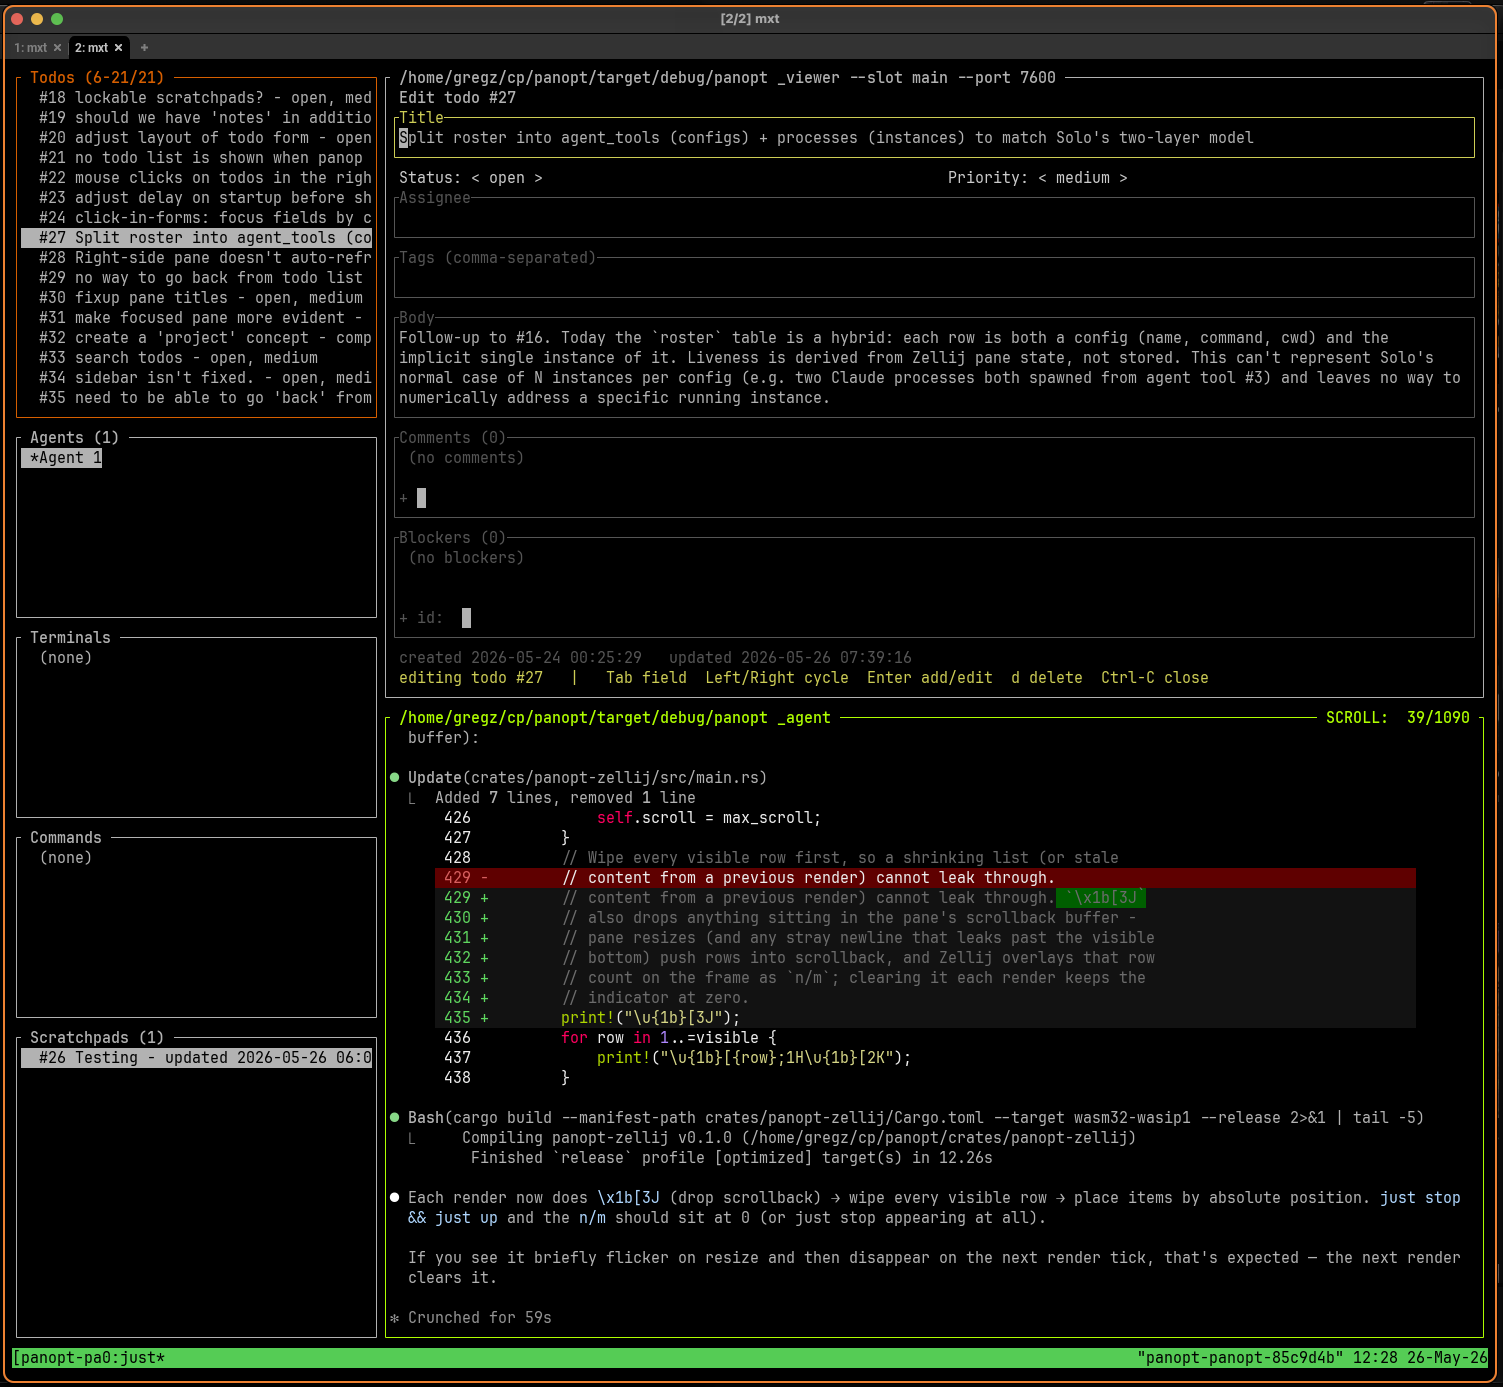
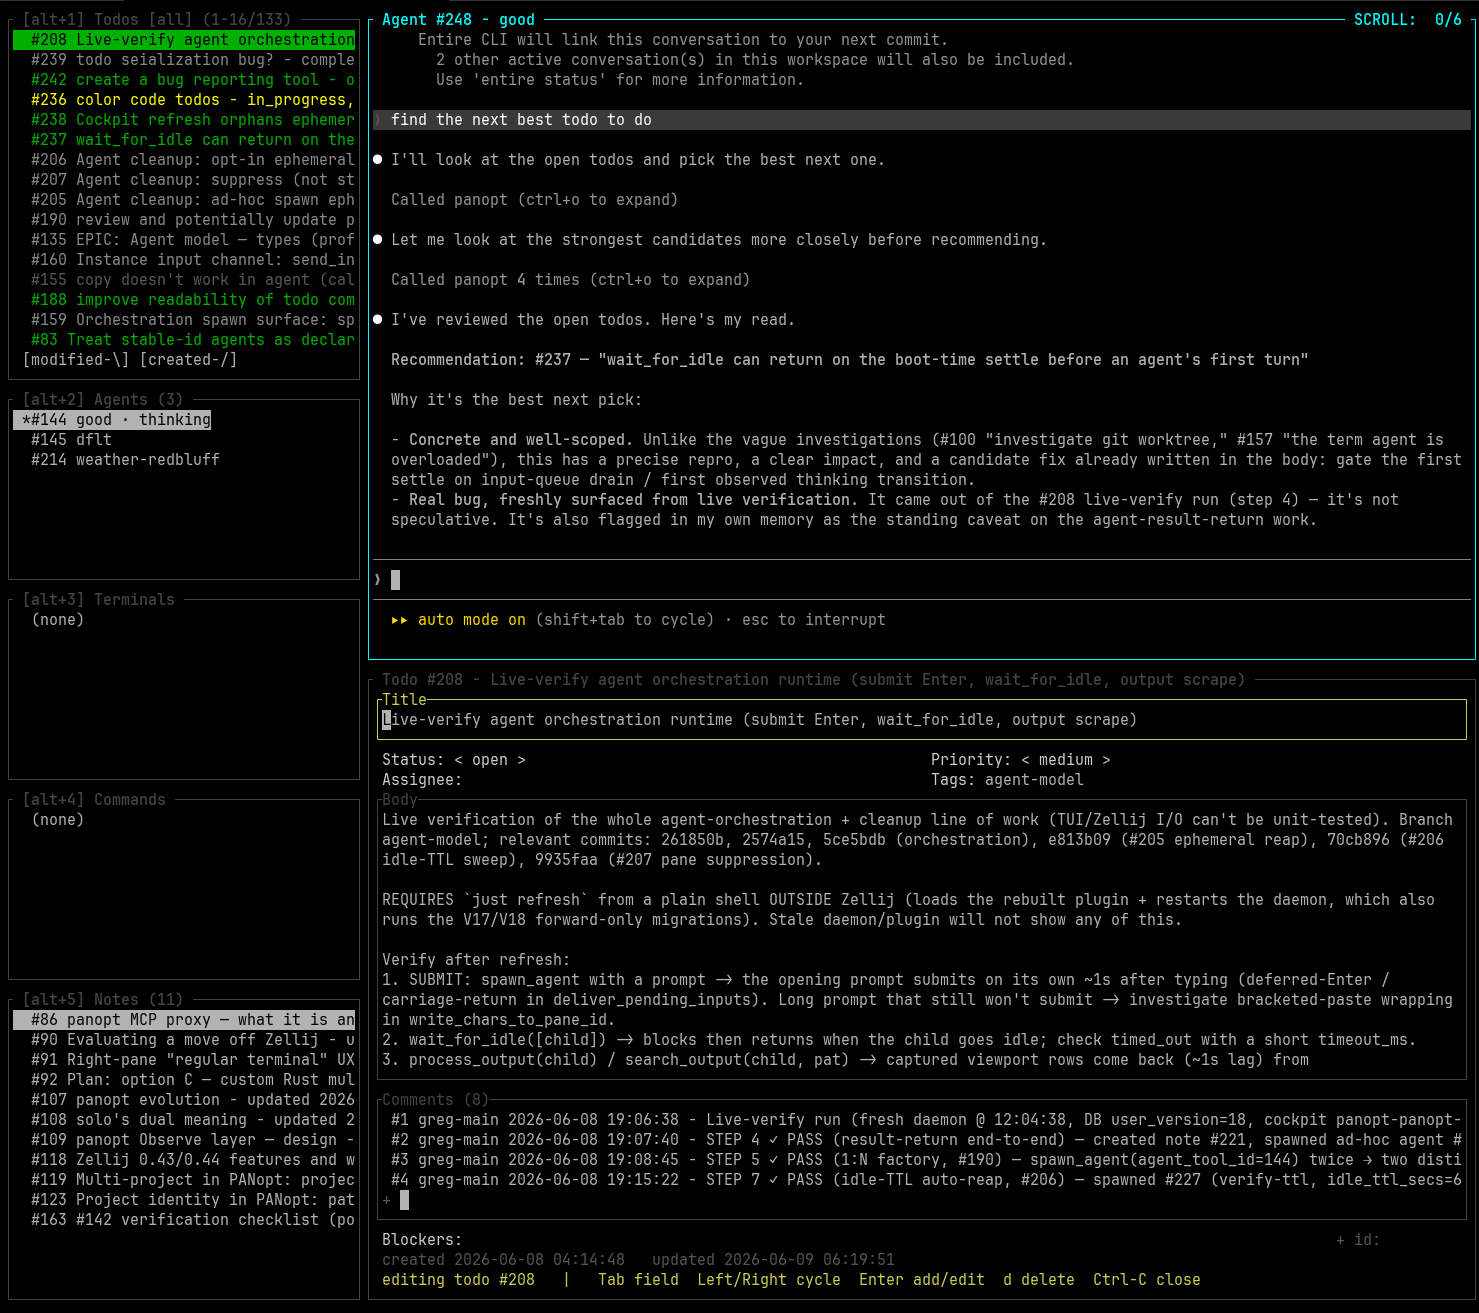
readme update
Entire-Checkpoint: 69986b99829a

Changed region(s): [[0.0, 0.0, 1.0, 0.9992]]

diff --git a/README.md b/README.md
@@ -14,9 +14,12 @@ in flight, and what's coming next - all from one terminal window.
 ## What you get
 
 **A shared todo list.** Every agent sees the same todos. Assign them, set
-priorities, add tags, leave comments, mark them blocked by other todos. You
-edit them from the sidebar with a quick form; your agents create and update
-them through MCP tools.
+priorities, add tags, leave comments, mark them blocked by other todos. Each
+todo carries a status - open, in progress, waiting, needs review, backlog,
+draft, done, or won't-do - and the sidebar color-codes the board so you can
+see at a glance what's in flight, what's parked waiting on something, and
+what's blocked. You edit them from the sidebar with a quick form; your agents
+create and update them through MCP tools.
 
 **Shared notes.** Free-form notes that agents and humans both read and
 write. Useful for "here's what I tried", "open questions", or a running log
@@ -26,11 +29,24 @@ of what an agent is doing - read live as the agent writes.
 a todo or any other resource by name. The sidebar shows what's currently held
 and by whom, so two agents won't quietly clobber each other.
 
+**Find anything fast.** A cockpit-wide search popup (one keybind) searches
+across every todo and note in the project at once - type a few characters,
+arrow to the hit, and it opens in the content pane. Reference anything by its
+`#N` id and PANopt resolves it to the right resource, whether it's a todo,
+note, command, or agent.
+
 **One terminal cockpit.** The cockpit is a [Zellij](https://zellij.dev)
-session with five sidebar panes - todos, agents, terminals, commands,
-notes - and one big content pane on the right. Arrow through any
-list to preview an item; activate it to swap it into the content pane.
-Todos, notes, and new agents are all created from the sidebar.
+session with five sidebar panes and a number of content panes on the right:
+
+- **Todos** and **Notes** - the shared lists above, browsed and edited inline.
+- **Agents** - every agent connected to the project; spawn a new one here.
+- **Commands** - your project's saved commands (build, test, run a server).
+  Launch one and it runs in the content pane where you can watch its output.
+- **Terminals** - plain shell panes you open inside the cockpit, alongside
+  the agents instead of in a separate window.
+
+Arrow through any list to preview an item; activate it to swap it into the
+content pane. Todos, notes, and new agents are all created from the sidebar.
 
 **Multiple agents, one project.** Spawn another agent from the agents
 pane and it joins the cockpit with its own pane. Every agent shares the
@@ -43,21 +59,36 @@ Code agents with the built-in sub-agent (Agent/Task) tool disabled
 (`--disallowedTools Agent`) plus a system-prompt pointer at `spawn_agent`;
 the panopt MCP tools themselves are unaffected.
 
+**Agents that orchestrate agents.** A spawned agent isn't fire-and-forget:
+the agent that launched it can hand it a task, wait for it to finish, and read
+back its result, so you can build a lead agent that farms work out to helpers
+and collects what they return. Helpers you spawn just for one job can be marked
+disposable - they're cleaned up automatically once they go idle, so the cockpit
+doesn't fill up with stragglers - while the agents you mean to keep stay put
+until you dismiss them yourself.
+
 **Remote agents.** Run the daemon on your workstation and connect an agent
 from another machine on the LAN - a laptop, a Mac running Solo, a host with
 USB-attached debug hardware. The remote agent joins the same coordination
 plane as the local ones and can work on resources only it has access to.
 
 **Your stuff stays yours.** Todos and notes mirror to plain markdown
-files under `.panopt/` in your project and is gitignored by default; check 
-it in if you want the project's todos to travel with the repo.
+files under `.panopt/` in your project, gitignored by default; check them
+in if you want the project's todos to travel with the repo.
 
 ## Features
 
-- Multi-platform
-- Remote friendly
-- Multi-pane
-- so! much! more!
+- One cockpit for many agents - Claude Code, Codex, anything that speaks MCP
+- Shared todos with statuses, priorities, tags, comments, and blockers
+- Shared free-form notes, readable live as an agent writes
+- Advisory locks so agents coordinate instead of colliding
+- Cockpit-wide search across todos and notes; reference anything by `#N`
+- Agents that spawn, drive, and collect results from other agents
+- Saved commands and ad-hoc terminals alongside your agents
+- Remote agents over the LAN, joined to the same coordination plane
+- State mirrored to plain markdown under `.panopt/` - yours to keep or commit
+- A `panopt` CLI that does everything the cockpit does, for scripting
+- Runs on Linux, macOS, and Windows
 
 ## Prerequisites
 
